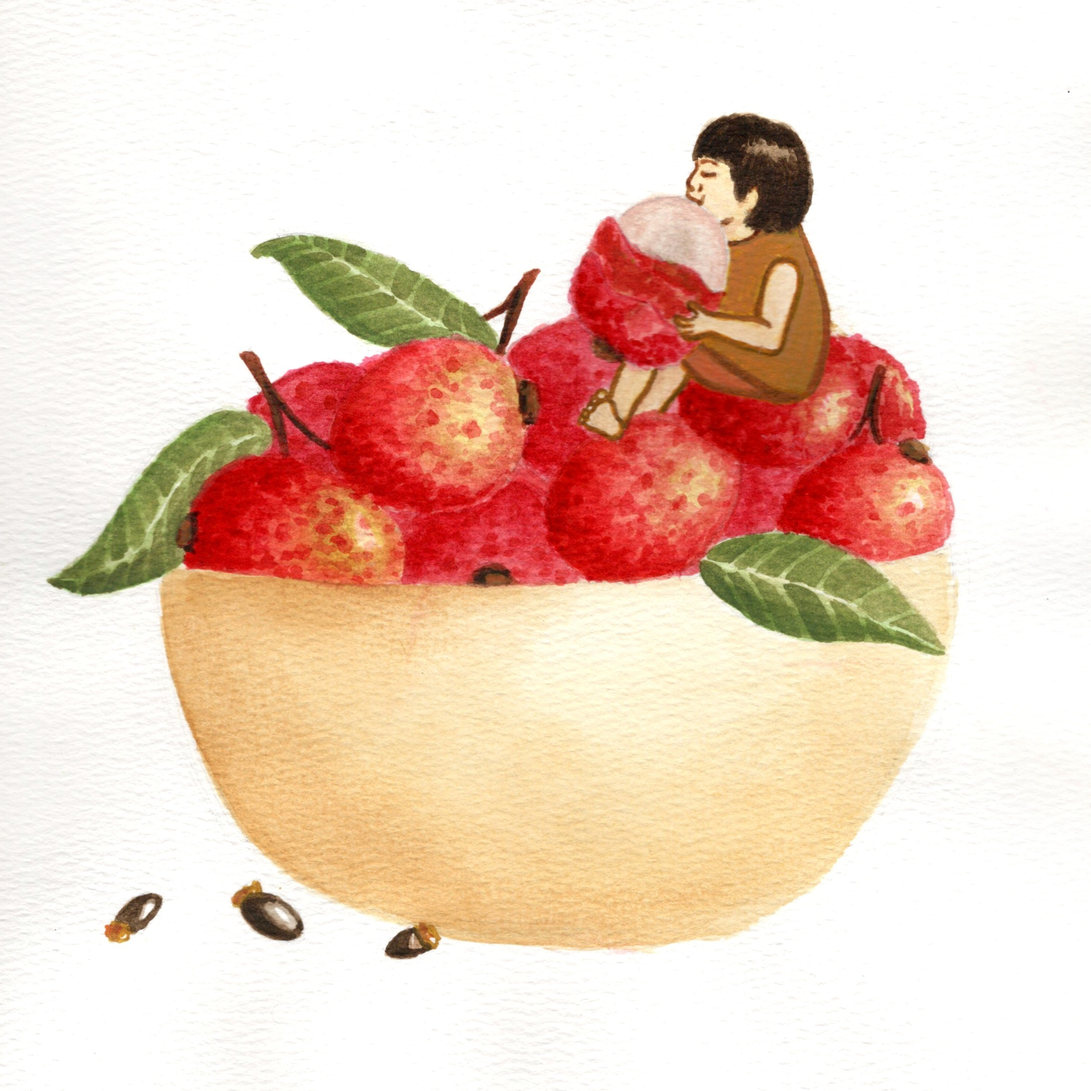
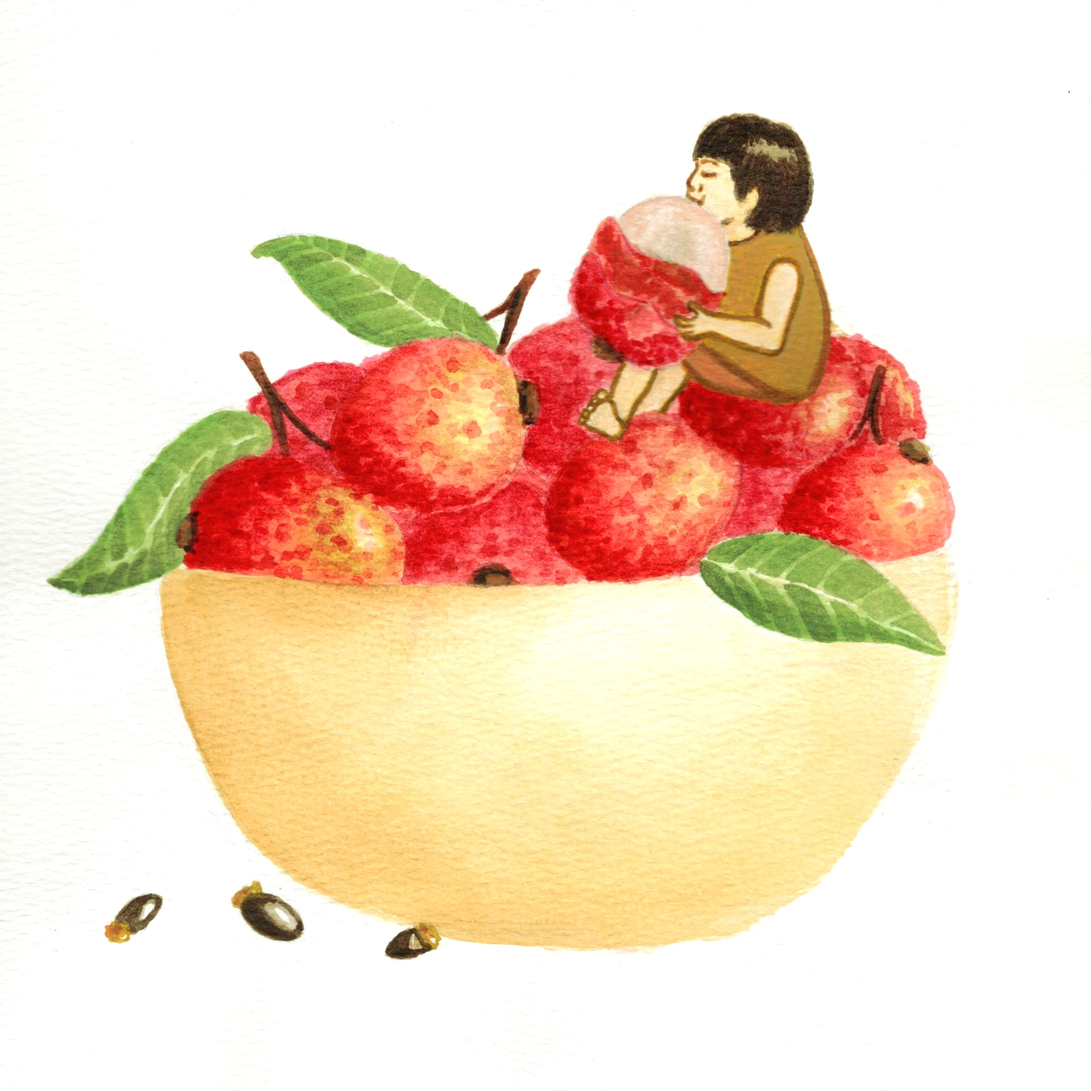
added and updated captions & pictures

diff --git a/index.html b/index.html
@@ -82,7 +82,7 @@
             data-collection="food"
             data-year="2025"
             data-medium="Gouache on paper"
-            data-series="Illustration"
+            data-series="Food Illustration"
             data-role="Illustration"
             
             data-desc="Turning memories into places you can step into ||
@@ -120,7 +120,7 @@
             data-collection="narrative"
             data-year="2024"
             data-medium="Gouache on paper"
-            data-series="Print / Object"
+            data-series="Narrative Illustration"
             data-role="Illustration"
             data-layout="cards-special"
 
@@ -145,6 +145,13 @@
             The deck's structure follows a chronological progression. The numbers on each card move from lowest to highest, 
             corresponding to different stages of my life, beginning with early childhood and advancing toward my present self. 
             Each card reflects what I valued, felt, or experienced at that age, capturing how my perspective has evolved over time. ||
+            The card backs feature an hourglass, symbolizing the passage of time and the reflective nature of the project. This 
+            motif reinforces the idea of looking back while acknowledging the continuous movement forward, tying together the 
+            concepts of memory and growth. ||
+            Additionally, the joker cards represent two unfortunate events in my life, standing apart from the structured 
+            progression of the deck. Unlike the other cards, which are organized and intentional, the jokers embody moments of 
+            chaos and unpredictability. Their inclusion acknowledges that not all experiences fit neatly into categories, but are 
+            still essential in shaping who I am. ||
             Translating memories into visual symbols allows me to reflect on how each moment, big or small, has shaped who I am 
             today. This project is both a personal archive and a visual narrative, using a familiar system to tell an intimate 
             story of growth, identity, and self-discovery."
@@ -170,13 +177,19 @@
             4 of Club “Birthday”~~4 Tier Cake|5 of Club “Ride Bike”~~5 Clouds|6 of Club “Drawing”~~6 Crayons|7 of Club “Height”~~7 Leafs|
             8 of Club “Puzzle”~~8 Pieces|9 of Club “Exercise”~~9 Items|10 of Club “Painting”~~10 Mountains|Jack of Club “Drive Car”|
             Queen of Club “Graduation”|King of Club “Job”|
-            1 of Diamonds|2 of Diamonds|3 of Diamonds|4 of Diamonds|5 of Diamonds|6 of Diamonds|7 of Diamonds|8 of Diamonds|
-            9 of Diamonds|10 of Diamonds|Jack of Diamonds|Queen of Diamonds|King of Diamonds|
-            1 of Spades|2 of Spades|3 of Spades|4 of Spades|5 of Spades|6 of Spades|7 of Spades|8 of Spades|
-            9 of Spades|10 of Spades|Jack of Spades|Queen of Spades|King of Spades|
-            1 of Hearts|2 of Hearts|3 of Hearts|4 of Hearts|5 of Hearts|6 of Hearts|7 of Hearts|8 of Hearts|
-            9 of Hearts|10 of Hearts|Jack of Hearts|Queen of Hearts|King of Hearts|
-            Joker Bone|Joker Cup">
+            Ace of Diamond “House”~~1 House|2 of Diamond “Toys”~~2 Toys|3 of Diamond “Teeth”~~3 Teeth|4 of Diamond “Quarters”~~4 Quarters|
+            5 of Diamond “Dollar Bills”~~5 Bills|6 of Diamond “Stuff Animals”~~6 Stuff Animals|7 of Diamond “Red Envelope”~~7 Envelopes|
+            8 of Diamond “Gifts”~~8 Gifts|9 of Diamond “Art Supplies”~~9 Supplies|10 of Diamond “Laptop”~~10 Clouds|
+            Jack of Diamond “Ipad/Pencil”|Queen of Diamond “Polaroid”|King of Diamond “Necklace”|
+            Ace of Spades “School”~~1 Building|2 of Spades “Write”~~2 Objects|3 of Spades “Math”~~3 Tools|4 of Spades “Bugs”~~4 Bugs|
+            5 of Spades “Origami”~~5 Origami|6 of Spades “Awards”~~6 Awards|7 of Spades “Game”~~7 Games|8 of Spades “Studying”~~8 Objects|
+            9 of Spades “Sleep”~~9 Stars|10 of Spades “Guitar”~~10 Papers|Jack of Spades “Baking”|Queen of Spades “Apartment”|
+            King of Spades “Art School”|
+            Ace of Heart “Family”~~1 Tree|2 of Heart “Pet Fish”~~2 Fishes|3 of Heart “Friends”~~3 Bracelets|4 of Heart “Crafts” ~~ 4 Paint Markers|
+            5 of Heart “Tv/Cartoon”~~5 Characters|6 of Heart “Candy”~~6 Candy|7 of Heart “Playground”~~7 Rocks|
+            8 of Heart “Road Trip”~~8 Objects|9 of Heart “Noodles”~~9 Toppings|10 of Heart “Music”~~10 Notes|Jack of Heart “Reading”|
+            Queen of Heart “Beach”|King of Heart “Relationship”|
+            Joker “Broken Bone”|Joker “Broken Cup”">
             <img src="images/cards-1.png" alt="Card Series" />
         </button>
         
@@ -187,7 +200,7 @@
             data-collection="food"
             data-year="2025"
             data-medium="Gouache on paper"
-            data-series="Illustration Series"
+            data-series="Food Illustration"
             data-role="Illustration"
             
             data-desc="When the sun sets, Thai Town comes alive. This campaign captures the energy, color, and flavor of LA’s 
@@ -221,7 +234,7 @@
             data-collection="environment"
             data-year="2025"
             data-medium="Gouache on paper"
-            data-series="Illustration Series"
+            data-series="Environment Illustration"
             data-role="Illustration"
 
             data-desc="Diving into a world where playgrounds drift beneath the sea Pufferfish Playground reimagines childhood 
@@ -246,7 +259,7 @@
             data-collection="environment"
             data-year="2024"
             data-medium="Gouache on paper"
-            data-series="Illustration Series"
+            data-series="Environment Illustration"
             data-role="Illustration"
             
             data-desc="A quiet moment in Monterey Park || 
@@ -274,7 +287,7 @@
             data-collection="food"
             data-year="2025"
             data-medium="Gouache on paper"
-            data-series="Illustration Series"
+            data-series="Food Illustration"
             data-role="Illustration"
             
             data-desc="When demand changes tradition ||
@@ -307,7 +320,7 @@
             data-collection="food"
             data-year="2026"
             data-medium="Gouache on paper"
-            data-series="Illustration Series"
+            data-series="Food Illustration"
             data-role="Illustration"
             
             data-desc="Meals that shaped my childhood, one stamp at a time. ||
@@ -338,7 +351,7 @@
             data-collection="food"
             data-year="2025"
             data-medium="Gouache on paper"
-            data-series="Illustration Series"
+            data-series="Food Illustration"
             data-role="Illustration"
             
             data-desc="Two carts, one choice. Healthy vs. Junk explores the contrast between fresh and processed foods, 
@@ -367,13 +380,13 @@
         </button>
 
         <button class="tile" type="button"
-            data-src="images/loquat-baby.jpg|images/Lychee-baby.jpg|images/Longon-baby.jpg"
+            data-src="images/loquat-baby.jpg|images/lychee-baby.jpg|images/longon-baby.jpg"
             data-title="Fruit Baby Series"
             data-featured="true"
             data-collection="food"
             data-year="2026"
             data-medium="Gouache on paper"
-            data-series="Illustration Series"
+            data-series="Food Illustration"
             data-role="Illustration"
             
             data-desc="When you love something so much, you wish it were bigger ||
@@ -397,7 +410,7 @@
             data-collection="food"
             data-year="2025"
             data-medium="Gouache on paper"
-            data-series="Illustration Series"
+            data-series="Food Illustration"
             data-role="Illustration"
             
             data-desc="A bakery hidden inside a croissant ||
@@ -435,7 +448,7 @@
             data-title="Red Book Series"
             data-year="2024"
             data-medium="Gouache on paper"
-            data-series="Illustration Series"
+            data-series="Narrative Illustration"
             data-role="Illustration"
             
             data-desc="A story told in red and everything that tried to dim it ||
@@ -471,7 +484,7 @@
             data-collection="narrative"
             data-year="2025"
             data-medium="Gouache on paper"
-            data-series="Illustration Series"
+            data-series="Narrative Illustration"
             data-role="Illustration"
             
             data-desc="A bakery hidden inside a croissant inspired by childhood memories, Croissant Bakery transforms something 
@@ -490,15 +503,26 @@
             data-collection="narrative"
             data-year="2024"
             data-medium="Gouache on paper"
-            data-series="Illustration Series"
+            data-series="Narrative Illustration"
             data-role="Illustration"
             
-            data-desc="A bakery hidden inside a croissant inspired by childhood memories, Croissant Bakery transforms something 
-            familiar into a tiny, glowing world, where “butter people” bring the magic of baking to life."
+            data-desc="Movement as culture, gesture as language. ||
+            Dance Series explores how identity and tradition can be expressed through the body, capturing rhythm, movement, and 
+            connection across cultures."
 
-            data-story=" Portrait for the arts to expressiv portrait."
+            data-story="A collection of seven illustrations exploring the relationship between movement, culture, and expression. 
+            Each piece focuses on a different dance style, using gesture and body language as the primary means of communicating 
+            identity and tradition. ||
+
+            The series includes Flamenco (Spain), Charleston (Juba), Waltz (Austria), Fan Dance (China), Hip Hop (New York City), 
+            Ballet (Russia), and Samba (Brazil). Rather than focusing on detailed environments, the work emphasizes the motion and 
+            posture of each figure, allowing the gestures themselves to convey the essence of each dance. ||
+
+            By simplifying forms and highlighting movement, the series captures the rhythm and energy of each style while also 
+            showing how dance can serve as a universal language. Despite their cultural differences, these gestures share a common 
+            purpose: expression, connection, and storytelling through the body."
             
-            data-details="Acrylic paint"
+            data-details="Traditional • Alcohol Markers on Paper"
             data-process-images="images/culture-dance.png"
             data-process-captions="All Dance Series">
             <img src="images/Flamenco.jpg" alt="Dance Series" />
